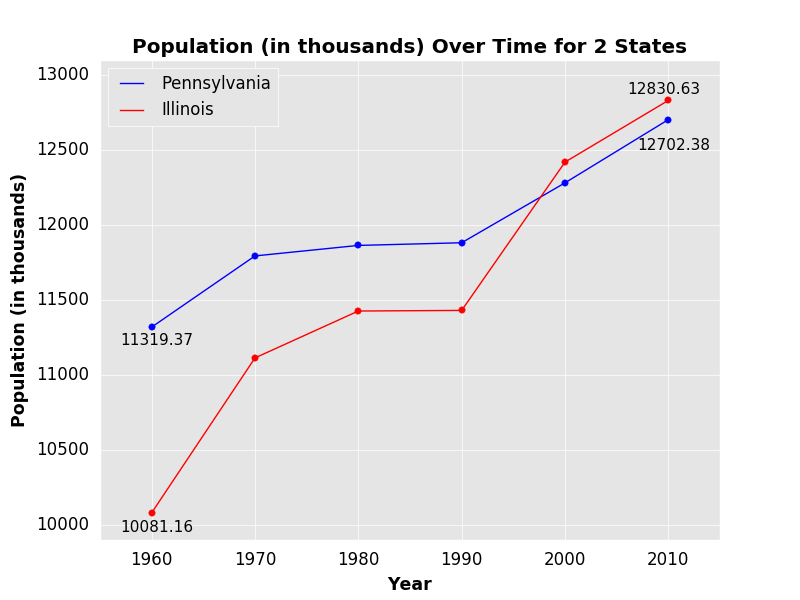
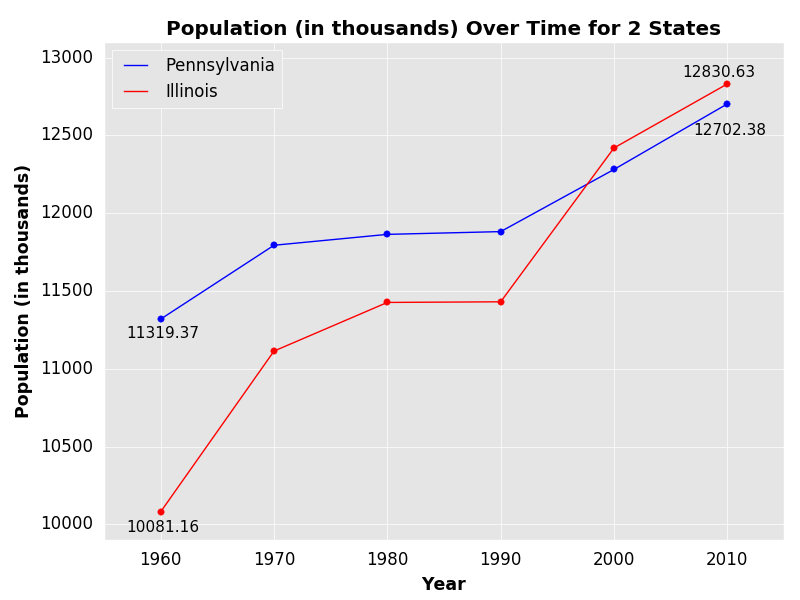
adjusted line graph margins. progress on histogram
adjusted line graph margins. progress on histogram

diff --git a/histogram.py b/histogram.py
@@ -1,0 +1,54 @@
+# This script creates a histogram using (a subset of) 'census_data.csv'.
+
+# A description of 'census_data.csv' can be found in 'census_data_scrape_and_process.R'.
+# To avoid an overwhelming plot, I will be using a subset of 'census_data.csv' consisting of
+# all observations for 2010.
+
+# Import modules.
+import pandas as pd
+import numpy as np
+import matplotlib.pyplot as plt
+from matplotlib import style
+
+# Set style.
+style.use('dark_background')
+
+# Load data.
+census_data = pd.read_csv('census_data.csv', encoding = 'latin-1')
+
+# SUBSET/PROCESS DATA.
+
+# Create data subset consisting of all 2010 observations.
+census_subset = census_data[['Name', '2010']]
+
+# Remove row containing total population of United States.
+census_subset = census_subset[census_subset['Name'] != 'United States']
+
+# Divide population values by 1000 for easier graph viewing.
+census_subset['2010'] = census_subset['2010'] / 1000
+
+# PLOT DATA.
+
+# Create figure and subplot.
+fig = plt.figure()
+ax1 = fig.add_subplot(1, 1, 1)
+
+# Add data.
+ax1.hist(census_subset['2010'], bins = 15, color = 'darkgreen')
+
+# Add annotations for Texas and California.
+ax1.annotate('Texas', xy = (census_subset[census_subset['Name'] == 'Texas']['2010'], 1),
+             xytext = ((census_subset[census_subset['Name'] == 'Texas']['2010'] + 2000), 4), fontsize = 13)
+ax1.annotate('California', xy = (census_subset[census_subset['Name'] == 'California']['2010'], 1),
+             xytext = ((census_subset[census_subset['Name'] == 'California']['2010'] + 2000), 4), fontsize = 13)
+
+# Remove ticks from both axes.
+ax1.tick_params(axis = 'both', length = 0)
+
+# Set plot and axes titles.
+plt.title('Frequency of 2010 US State Populations (in thousands)', fontweight = 'bold')
+plt.xlabel('2010 Populations (in thousands)', fontweight = 'bold', fontsize = 12.5, color = 'white')
+plt.ylabel('Frequency', fontweight = 'bold', fontsize = 12.5, color = 'white')
+
+# Show plot.
+plt.show()

diff --git a/line_graph.py b/line_graph.py
@@ -73,7 +73,6 @@ plt.xlim([1955, 2015])
 ax1.tick_params(axis = 'both', colors = 'black')
 ax1.tick_params(axis = 'both', labelsize = 12)
 
-
 # Remove first and last x-axis label (not needed).
 ax1.xaxis.get_major_ticks()[0].label1.set_visible(False)
 ax1.xaxis.get_major_ticks()[-1].label1.set_visible(False)
@@ -91,6 +90,9 @@ ax1.grid(zorder = 0)
 
 # Add legend.
 ax1.legend(loc = 2)
+
+# Adjust plot margins.
+plt.subplots_adjust(left = 0.13, bottom = 0.1, right = 0.98, top = 0.93)
 
 # Show plot.
 plt.show()
